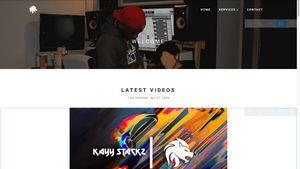
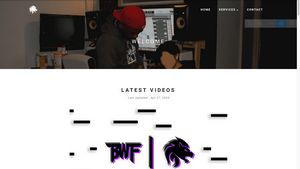
Minor changes

diff --git a/index.html b/index.html
@@ -68,12 +68,12 @@
     </div>
 </section>
 
-<section class="mbr-section" id="video2-1y" data-rv-view="44">
+<section class="mbr-section" id="video2-1y" data-rv-view="7">
     <div class="mbr-section__container container mbr-section__container--middle">
         <div class="row">
             <div class="col-sm-8 col-sm-offset-2">
                 <figure class="mbr-figure mbr-figure--wysiwyg mbr-figure--full-width mbr-figure--no-bg mbr-figure--caption-outside-bottom">
-                    <div><img src="assets/images/the-return-1280x720.png" class="mbr-figure__img" alt="THERETURN"></div>
+                    <div><img src="assets/images/the-return-bw-1280x720.png" class="mbr-figure__img" alt="THERETURN"></div>
                     <figcaption class="mbr-figure__caption mbr-figure__caption--no-padding">
                         <small class="mbr-figure__caption-small">"COMING SOON" - COMING SOON - COMING SOON<br></small>
                     </figcaption>
@@ -83,7 +83,7 @@
     </div>
 </section>
 
-<section class="mbr-section" id="video2-1x" data-rv-view="7">
+<section class="mbr-section" id="video2-1x" data-rv-view="9">
     <div class="mbr-section__container container mbr-section__container--middle">
         <div class="row">
             <div class="col-sm-8 col-sm-offset-2">
@@ -98,7 +98,7 @@
     </div>
 </section>
 
-<section class="mbr-section" id="video2-1w" data-rv-view="9">
+<section class="mbr-section" id="video2-1w" data-rv-view="11">
     <div class="mbr-section__container container mbr-section__container--middle">
         <div class="row">
             <div class="col-sm-8 col-sm-offset-2">
@@ -113,7 +113,7 @@
     </div>
 </section>
 
-<section class="mbr-section" id="video2-1g" data-rv-view="11">
+<section class="mbr-section" id="video2-1g" data-rv-view="13">
     <div class="mbr-section__container container mbr-section__container--middle">
         <div class="row">
             <div class="col-sm-8 col-sm-offset-2">
@@ -128,7 +128,7 @@
     </div>
 </section>
 
-<section class="mbr-section" id="video2-8" data-rv-view="13">
+<section class="mbr-section" id="video2-8" data-rv-view="15">
     <div class="mbr-section__container container mbr-section__container--middle">
         <div class="row">
             <div class="col-sm-8 col-sm-offset-2">
@@ -143,7 +143,7 @@
     </div>
 </section>
 
-<section class="mbr-section" id="video2-a" data-rv-view="15">
+<section class="mbr-section" id="video2-a" data-rv-view="17">
     <div class="mbr-section__container container mbr-section__container--middle">
         <div class="row">
             <div class="col-sm-8 col-sm-offset-2">
@@ -158,7 +158,7 @@
     </div>
 </section>
 
-<section class="mbr-section" id="video2-b" data-rv-view="17">
+<section class="mbr-section" id="video2-b" data-rv-view="19">
     <div class="mbr-section__container container mbr-section__container--middle">
         <div class="row">
             <div class="col-sm-8 col-sm-offset-2">
@@ -173,7 +173,7 @@
     </div>
 </section>
 
-<section class="mbr-section" id="video2-c" data-rv-view="19">
+<section class="mbr-section" id="video2-c" data-rv-view="21">
     <div class="mbr-section__container container mbr-section__container--middle">
         <div class="row">
             <div class="col-sm-8 col-sm-offset-2">
@@ -188,7 +188,7 @@
     </div>
 </section>
 
-<section class="mbr-section" id="video2-d" data-rv-view="21">
+<section class="mbr-section" id="video2-d" data-rv-view="23">
     <div class="mbr-section__container container mbr-section__container--middle">
         <div class="row">
             <div class="col-sm-8 col-sm-offset-2">
@@ -203,7 +203,7 @@
     </div>
 </section>
 
-<section class="mbr-section" id="video2-e" data-rv-view="23">
+<section class="mbr-section" id="video2-e" data-rv-view="25">
     <div class="mbr-section__container container mbr-section__container--middle">
         <div class="row">
             <div class="col-sm-8 col-sm-offset-2">
@@ -218,7 +218,7 @@
     </div>
 </section>
 
-<section class="mbr-section" id="video2-f" data-rv-view="25">
+<section class="mbr-section" id="video2-f" data-rv-view="27">
     <div class="mbr-section__container container mbr-section__container--middle">
         <div class="row">
             <div class="col-sm-8 col-sm-offset-2">
@@ -233,7 +233,7 @@
     </div>
 </section>
 
-<section class="mbr-section" id="video2-g" data-rv-view="27">
+<section class="mbr-section" id="video2-g" data-rv-view="29">
     <div class="mbr-section__container container mbr-section__container--middle">
         <div class="row">
             <div class="col-sm-8 col-sm-offset-2">
@@ -248,7 +248,7 @@
     </div>
 </section>
 
-<section class="mbr-section" id="video2-h" data-rv-view="29">
+<section class="mbr-section" id="video2-h" data-rv-view="31">
     <div class="mbr-section__container container mbr-section__container--middle">
         <div class="row">
             <div class="col-sm-8 col-sm-offset-2">
@@ -263,7 +263,7 @@
     </div>
 </section>
 
-<section class="mbr-section" id="video2-i" data-rv-view="31">
+<section class="mbr-section" id="video2-i" data-rv-view="33">
     <div class="mbr-section__container container mbr-section__container--last">
         <div class="row">
             <div class="col-sm-8 col-sm-offset-2">
@@ -278,7 +278,7 @@
     </div>
 </section>
 
-<section class="mbr-section mbr-section--relative mbr-section--fixed-size" id="form1-j" data-rv-view="33" style="background-color: rgb(255, 255, 255);">
+<section class="mbr-section mbr-section--relative mbr-section--fixed-size" id="form1-j" data-rv-view="35" style="background-color: rgb(255, 255, 255);">
     
     <div class="mbr-section__container mbr-section__container--std-padding container" style="padding-top: 0px; padding-bottom: 93px;">
         <div class="row">
@@ -292,7 +292,7 @@
                             <div class="hide" data-form-alert-success="true">Thanks for filling out form!</div>
                         </div>
                         <form action="https://mobirise.com/" method="post" data-form-title="CONTACT FORM">
[2 lines of base64/hex data omitted]
                             <div class="form-group">
                                 <input type="text" class="form-control" name="name" required="" placeholder="Name*" data-form-field="Name">
                             </div>
@@ -312,7 +312,7 @@
     </div>
 </section>
 
-<footer class="mbr-section mbr-section--relative mbr-section--fixed-size" id="footer1-k" data-rv-view="42" style="background-color: rgb(0, 0, 0);">
+<footer class="mbr-section mbr-section--relative mbr-section--fixed-size" id="footer1-k" data-rv-view="44" style="background-color: rgb(0, 0, 0);">
     
     <div class="mbr-section__container container">
         <div class="mbr-footer mbr-footer--wysiwyg row" style="padding-top: 36.9px; padding-bottom: 36.9px;">

diff --git a/privacy_policy.html b/privacy_policy.html
@@ -90,7 +90,7 @@
                             <div class="hide" data-form-alert-success="true">Thanks for filling out form!</div>
                         </div>
                         <form action="https://mobirise.com/" method="post" data-form-title="CONTACT FORM">
[2 lines of base64/hex data omitted]
                             <div class="form-group">
                                 <input type="text" class="form-control" name="name" required="" placeholder="Name*" data-form-field="Name">
                             </div>
